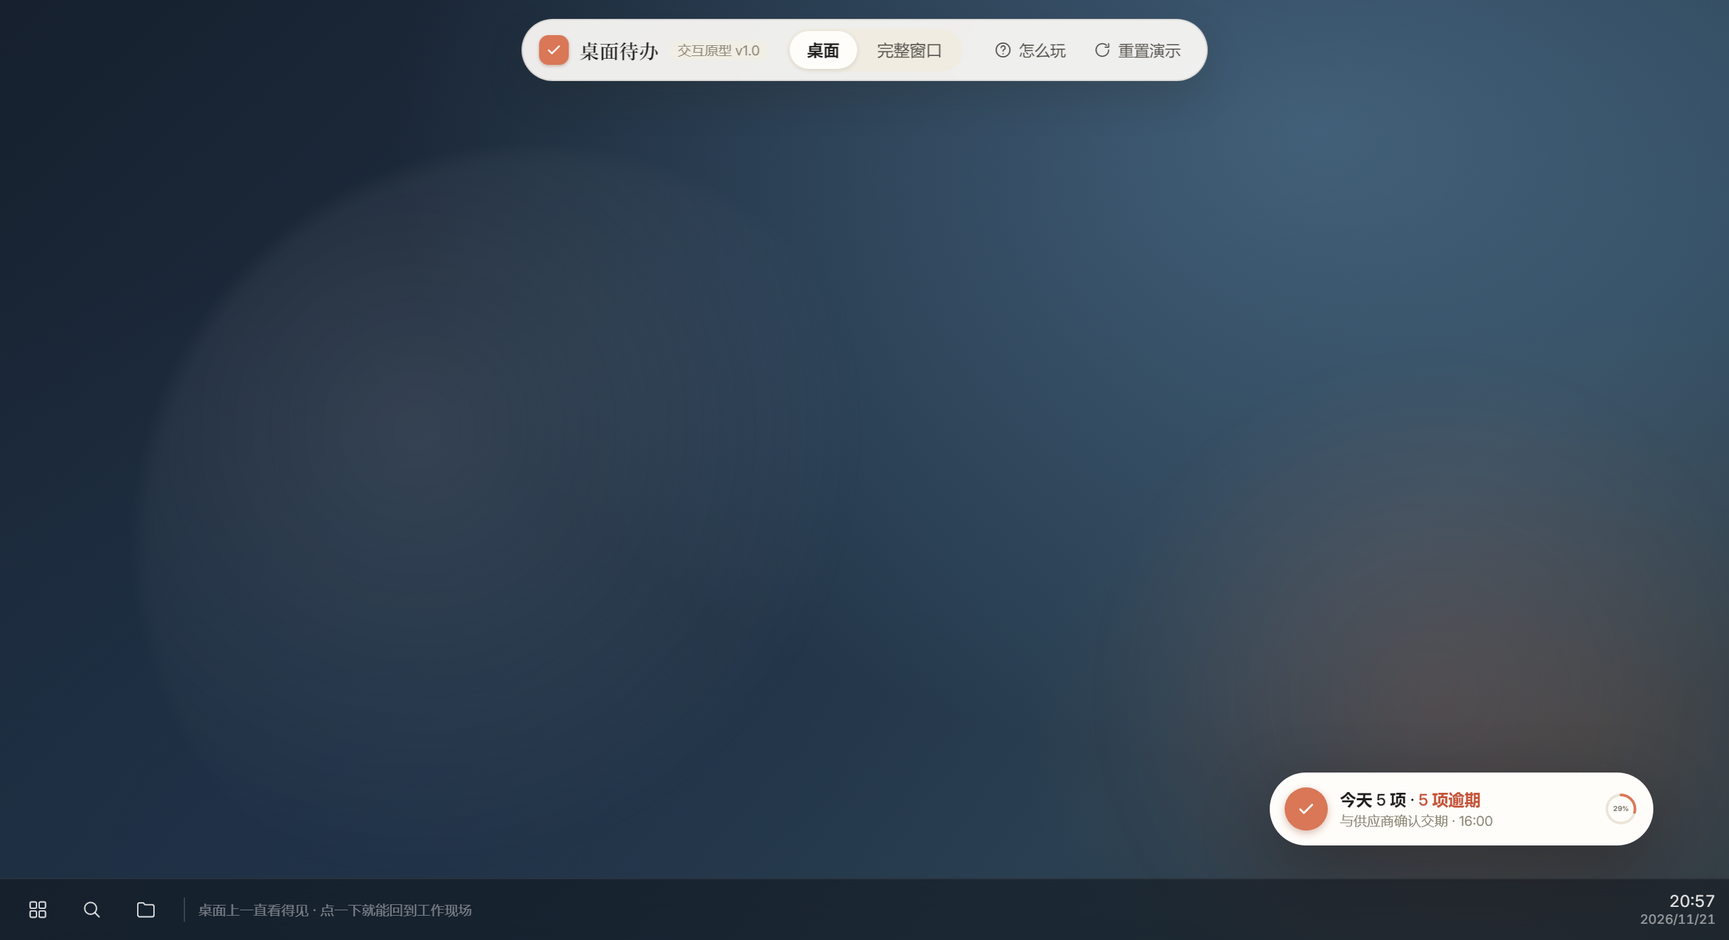
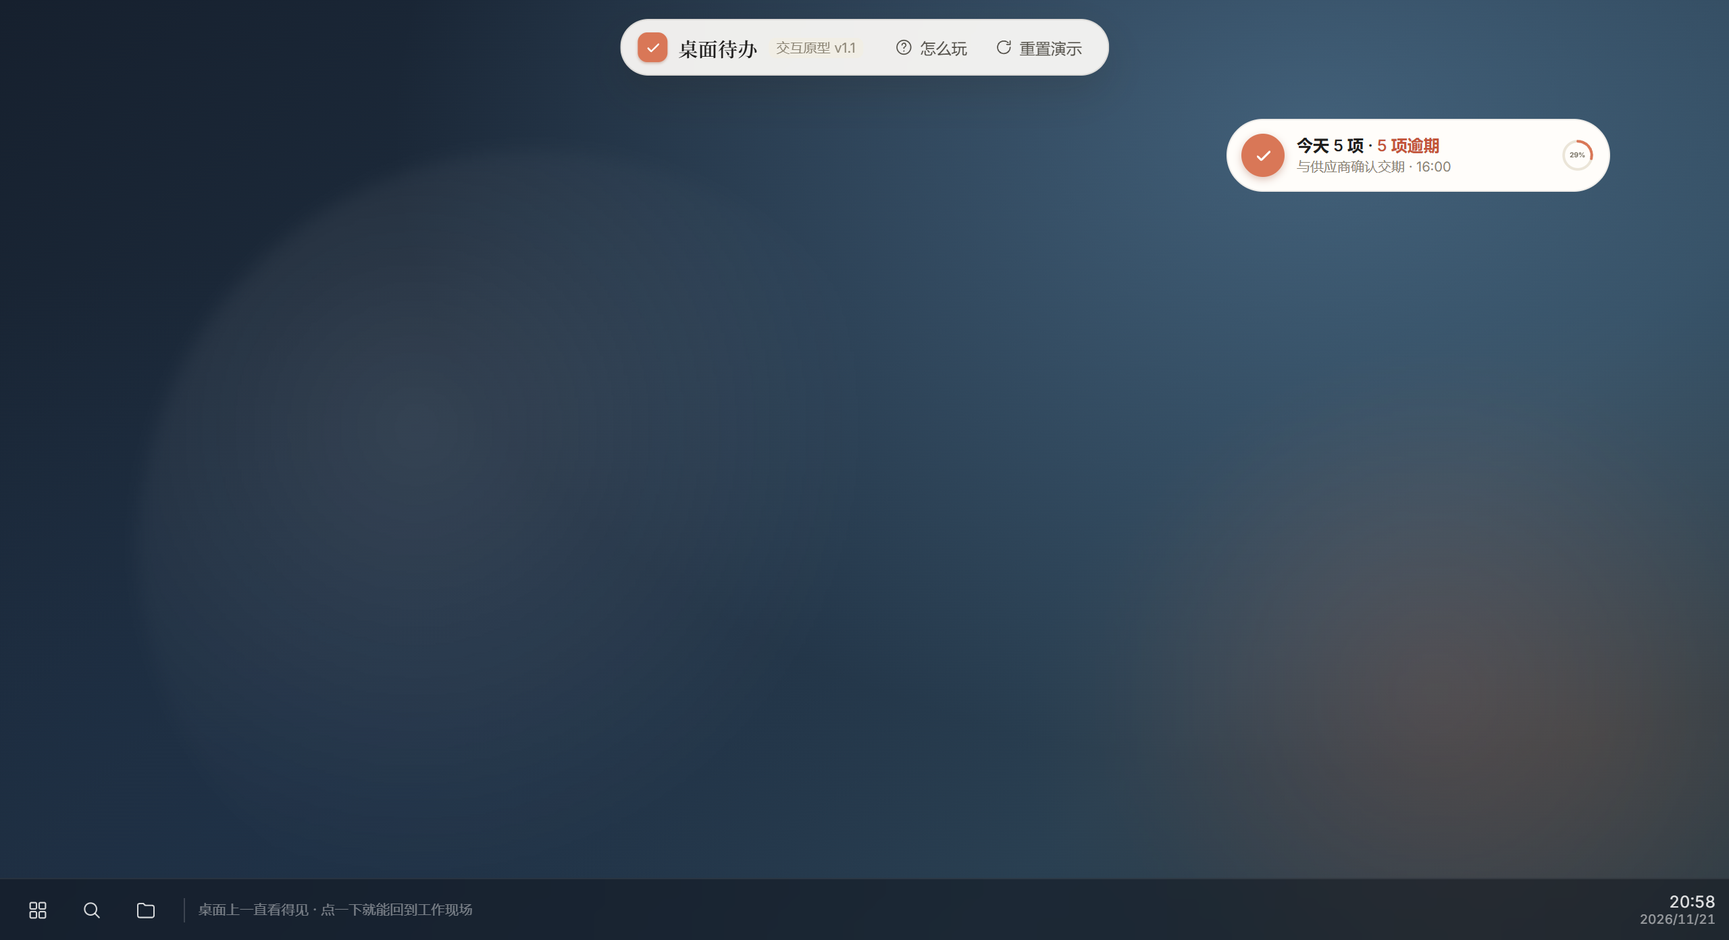
fix(prototype): 桌面形态去掉外投影，原型与实现统一为 1px 内描边
- design/app/css 与两份 tokens：--shadow-widget* / --shadow-capsule* 由外投影改为 inset 0 0 0 1px（8%/未置顶 6%/hover 12% ink）
- 文档同步：docs/02 阴影、docs/08 §1.4/§2.2/§2.4、README、design/README、验收记录（根因、computed 与像素证据）
- 重导参考图 design/app-desktop.png、design/app-capsule.png（1280×696@2x，无头 Edge 158 + CDP，演示时钟 2026-11-21 20:58）
- 验证：CDP computed box-shadow 仅 inset；重导图四边外像素与壁纸差 ≤5/255；run-tests 13 文件 171 用例通过；tsc 0 错误；pnpm build 通过

diff --git a/design/app/css/app.css b/design/app/css/app.css
@@ -122,10 +122,11 @@ a{color:var(--link)}
 .widget{
   width:352px;max-height:520px;display:flex;flex-direction:column;
   background:var(--card);border-radius:var(--r-xl);overflow:hidden;
-  box-shadow:0 24px 60px rgba(20,15,10,.35),0 0 0 1px rgba(255,255,255,.12) inset;
+  /* 桌面形态不使用外投影：Electron 窗口边界＝卡片边界，外投影会被裁切、只在圆角缺口露灰边；改用 1px 内描边（与实现共用 token） */
+  box-shadow:var(--shadow-widget);
   transition:box-shadow .2s,opacity .2s;
 }
-.widget.unpinned{box-shadow:0 14px 34px rgba(20,15,10,.22),0 0 0 1px rgba(255,255,255,.10) inset}
+.widget.unpinned{box-shadow:var(--shadow-widget-unpinned)}
 .w-drag{height:14px;display:flex;align-items:center;justify-content:center;gap:4px;cursor:grab;flex:none}
 .w-drag i{width:2.5px;height:2.5px;border-radius:50%;background:#DAD3C3;display:block}
 .w-drag:active{cursor:grabbing}
@@ -201,10 +202,10 @@ a{color:var(--link)}
 
 /* 收起胶囊 */
 .capsule{position:absolute;right:56px;bottom:70px;width:284px;height:54px;border-radius:999px;
-  background:var(--card);box-shadow:0 18px 50px rgba(20,15,10,.36),0 0 0 1px rgba(255,255,255,.10) inset;
+  background:var(--card);box-shadow:var(--shadow-capsule);
   display:flex;align-items:center;gap:9px;padding:0 11px;cursor:pointer;transition:transform .16s,box-shadow .2s;
   animation:capsuleIn .26s cubic-bezier(.34,1.4,.64,1)}
-.capsule:hover{box-shadow:0 22px 56px rgba(20,15,10,.42),0 0 0 1px rgba(255,255,255,.12) inset}
+.capsule:hover{box-shadow:var(--shadow-capsule-hover)}
 .cap-check{width:32px;height:32px;flex:none;border-radius:50%;background:var(--accent);color:#FFFDFA;
   display:flex;align-items:center;justify-content:center;box-shadow:0 2px 6px rgba(150,75,50,.35)}
 .cap-check .ic{width:15px;height:15px;stroke-width:2.4}
@@ -602,7 +603,7 @@ input:focus-visible,textarea:focus-visible,select:focus-visible{outline:none;box
 /* 收起胶囊：可拖动，位置由 .cap-wrap 内联 left/top 决定（记忆在 ui.capsule） */
 .cap-wrap{position:absolute;left:0;top:0;transition:opacity .18s}
 .cap-wrap .capsule{position:relative;right:auto;bottom:auto;left:auto;top:auto}
-.cap-wrap.dragging .capsule{transition:none;cursor:grabbing;transform:none;box-shadow:0 22px 56px rgba(20,15,10,.46),0 0 0 1px rgba(255,255,255,.12) inset}
+.cap-wrap.dragging .capsule{transition:none;cursor:grabbing;transform:none;box-shadow:var(--shadow-capsule-hover)}
 
 /* 输入框：改成自动换行的 textarea（一行起步，随内容增高，最多 5 行后内部滚动） */
 .composer textarea.cinput{display:block;width:100%;border:0;outline:0;background:transparent;

diff --git a/design/ui/tokens.css b/design/ui/tokens.css
@@ -131,10 +131,11 @@
   --shadow-card-strong:0 2px 8px rgba(60,50,30,.05);
   --shadow-pop:0 18px 40px rgba(60,50,30,.16),0 2px 6px rgba(60,50,30,.06);
   --shadow-modal:0 34px 90px rgba(40,30,15,.34),0 0 0 1px rgba(60,50,30,.06);
-  --shadow-widget:0 24px 60px rgba(20,15,10,.35),0 0 0 1px rgba(255,255,255,.12) inset;
-  --shadow-widget-unpinned:0 14px 34px rgba(20,15,10,.22),0 0 0 1px rgba(255,255,255,.10) inset;
-  --shadow-capsule:0 18px 50px rgba(20,15,10,.36),0 0 0 1px rgba(255,255,255,.10) inset;
-  --shadow-capsule-hover:0 22px 56px rgba(20,15,10,.42),0 0 0 1px rgba(255,255,255,.12) inset;
+  /* 桌面形态（挂件/胶囊）不使用外投影：窗口边界＝卡片边界，外投影会被矩形窗口裁切、只在圆角缺口露灰边；用 1px 内描边表达边界（原型与实现一致） */
+  --shadow-widget:inset 0 0 0 1px color-mix(in srgb, var(--ink) 8%, transparent);
+  --shadow-widget-unpinned:inset 0 0 0 1px color-mix(in srgb, var(--ink) 6%, transparent);
+  --shadow-capsule:inset 0 0 0 1px color-mix(in srgb, var(--ink) 8%, transparent);
+  --shadow-capsule-hover:inset 0 0 0 1px color-mix(in srgb, var(--ink) 12%, transparent);
   --shadow-manager:0 30px 80px rgba(50,40,25,.20),0 0 0 1px rgba(60,50,30,.06);
   --shadow-toast:0 16px 36px rgba(20,15,5,.32);
 

diff --git a/src/renderer/src/styles/tokens.css b/src/renderer/src/styles/tokens.css
@@ -131,10 +131,11 @@
   --shadow-card-strong:0 2px 8px rgba(60,50,30,.05);
   --shadow-pop:0 18px 40px rgba(60,50,30,.16),0 2px 6px rgba(60,50,30,.06);
   --shadow-modal:0 34px 90px rgba(40,30,15,.34),0 0 0 1px rgba(60,50,30,.06);
-  --shadow-widget:0 24px 60px rgba(20,15,10,.35),0 0 0 1px rgba(255,255,255,.12) inset;
-  --shadow-widget-unpinned:0 14px 34px rgba(20,15,10,.22),0 0 0 1px rgba(255,255,255,.10) inset;
-  --shadow-capsule:0 18px 50px rgba(20,15,10,.36),0 0 0 1px rgba(255,255,255,.10) inset;
-  --shadow-capsule-hover:0 22px 56px rgba(20,15,10,.42),0 0 0 1px rgba(255,255,255,.12) inset;
+  /* 桌面形态（挂件/胶囊）不使用外投影：窗口边界＝卡片边界，外投影会被矩形窗口裁切、只在圆角缺口露灰边；用 1px 内描边表达边界（原型与实现一致） */
+  --shadow-widget:inset 0 0 0 1px color-mix(in srgb, var(--ink) 8%, transparent);
+  --shadow-widget-unpinned:inset 0 0 0 1px color-mix(in srgb, var(--ink) 6%, transparent);
+  --shadow-capsule:inset 0 0 0 1px color-mix(in srgb, var(--ink) 8%, transparent);
+  --shadow-capsule-hover:inset 0 0 0 1px color-mix(in srgb, var(--ink) 12%, transparent);
   --shadow-manager:0 30px 80px rgba(50,40,25,.20),0 0 0 1px rgba(60,50,30,.06);
   --shadow-toast:0 16px 36px rgba(20,15,5,.32);
 

diff --git a/src/renderer/src/styles/app.css b/src/renderer/src/styles/app.css
@@ -35,7 +35,7 @@ a{color:var(--link)}
 [hidden]{display:none !important}
 
 /* ================= 桌面挂件层 ================= */
-/* 挂件 */
+/* 挂件：窗口边界＝卡片边界，桌面形态不画外投影（被矩形窗口裁切），--shadow-widget* 是 1px 内描边 */
 .widget{
   width:352px;max-height:520px;display:flex;flex-direction:column;
   background:var(--card);border-radius:var(--radius-2xl);overflow:hidden;

diff --git a/docs/acceptance/M6-ACCEPTANCE.md b/docs/acceptance/M6-ACCEPTANCE.md
@@ -172,7 +172,7 @@
 
 | 反馈 | 根因 | 修复 | 验证 |
 | --- | --- | --- | --- |
-| 挂件/胶囊下有灰色底板 | 透明窗口沿用了 08 原型的大投影 `--shadow-widget/--shadow-capsule`，在浅色桌面上渲染成灰色矩形 | `src/renderer/src/styles/app.css` 桌面形态改用 token 派生轻投影 + 1px 内描边；`.unpinned` 更轻；tokens.css 未改 | CDP `getComputedStyle(...).boxShadow` = `0 4px 16px color(ink 10%) + 1px ink 8%`；OS 截图确认无灰色矩形 |
+| 挂件/胶囊下有灰色底板 | 透明窗口沿用了 08 原型的大投影 `--shadow-widget/--shadow-capsule`，在浅色桌面上渲染成灰色矩形 | `src/renderer/src/styles/app.css` 桌面形态改用 1px 内描边；后续原型与 tokens 也统一去掉外投影（见第 7 节） | 真机四角像素＝背景色（挂件 `(247,249,255)`、胶囊 `(251,252,255)`）；桌面形态 computed `box-shadow` 为 inset 1px 内描边 |
 | 胶囊只有左侧对勾可点开 | 胶囊主体是 `-webkit-app-region: drag` 拖动区，吞掉点击 | 改用 renderer pointer 事件 + 主进程 `setBounds`：新增 `widget:beginDrag/dragMove/endDrag`；整块可点，位移 ≥4px 才进入拖动并抑制展开 | CDP `Input.dispatchMouseEvent`：点胶囊中部 → `view-widget` ✓；点对勾圆 → 展开 ✓；拖动 6 步后仍 `view-capsule`（未误展开）且 `settings.capsuleBounds` 从 {994,77} 写回 {1162,182} ✓ |
 | 胶囊很难拖动 | 同上，只有拖动区可用 | 同上，整块可拖；松手写回 `capsuleBounds`（clamp 到 workArea） | 同上；另设 `.view-capsule .capsule{cursor:grab}`、`.dragging{cursor:grabbing}` |
 | 完整窗口输入框下方日期面板一点就关、无法选择 | `Popover` 的 outside-click 把 portal 出来的 `.dp-pop` 当成外部点击 | `anchoredPosition.ts` 增加 `FLOATING_LAYER_SELECTOR='.pop, .dp-pop, .overlay'` + `isInsideFloatingLayer()`；`Popover` mousedown 判断命中内嵌浮层则不关闭 | CDP：composer 日期浮层 → 打开 `.dp-pop` → 点 25 日 → `.pop`/`.dp-pop` 均保持打开 → 点「确定」→ 生效为「11月25日 00:30」并关闭；截图 `.agents/reports/screens/m6-fix-datepicker.png` |
@@ -359,3 +359,20 @@
 **补充（2026-11-22 11:30 打包版复验）**：
 - 修复「hover 位移」之外又修了亚像素裁切：`175%` DPI 下胶囊窗口 client 为 284×54 但渲染视口 innerHeight≈55，`height:100%` 会让卡片比窗口高约 0.4px、底部圆角被裁。改为 `.view-capsule .cap-wrap{display:flex;align-items:center;justify-content:center}` + `.capsule{height:var(--capsule-h,54px)}`，卡片固定 54 高并居中。
 - 打包版（桌面交付目录启动）复验：胶囊 `y=0.71 / h=54`（完整可见、无裁切），`Input.dispatchMouseEvent` 悬停后 `transform:none`、`y/h` 不变、内描边 12%；OS 截图圆角上下弧线连续。
+
+
+## 7) 2026-11-22 11:36 原型与实现统一去掉桌面形态外投影（用户 2026-11-22 11:33 指示）
+
+**用户指示**：不需要「浮在桌面上、四周带大外投影」的效果，要求原型与相关说明同步调整。
+
+**改动**：
+- `design/ui/tokens.css` 与 `src/renderer/src/styles/tokens.css`：4 个桌面形态 shadow token（`--shadow-widget` / `--shadow-widget-unpinned` / `--shadow-capsule` / `--shadow-capsule-hover`）改为 `inset 0 0 0 1px` 内描边（8% / 未置顶 6% / hover 12% ink），两份 tokens 保持一致。
+- `design/app/css/app.css`：`.widget` / `.widget.unpinned` / `.capsule` / `.capsule:hover` / `.cap-wrap.dragging .capsule` 改用上述 token，原型不再画外投影。
+- 说明文档：`docs/02` §3、`docs/08` §1.4/§2.2/§2.4、`README.md`、`design/README.md` 同步为「桌面形态只用 1px 内描边、不使用外投影」。
+- 参考截图：`design/app-desktop.png`、`design/app-capsule.png` 由更新后的原型重新导出（1280×696 @2x，演示时钟固定在 2026-11-21 20:58，与旧图同状态便于对比）。
+
+**验证**：
+- 原型（无头 Edge 158 + CDP，1280×696 @2x）：`.widget` / `.capsule` 的 computed `box-shadow` 均为 `color(srgb 0.121569 0.117647 0.113725 / 0.08) 0px 0px 0px 1px inset`（只剩内描边）；重新导出 `design/app-desktop.png`、`design/app-capsule.png`。
+- 像素复核（重导图）：卡片四边外 3px 取样与同方向远处壁纸的差值 ≤5/255（属于壁纸渐变本身的量级），无外投影造成的暗带；旧图同一位置为明显的外投影暗带。
+- 实现：桌面形态规则仍为 `inset 0 0 0 1px ...`（8% / 未置顶 6% / hover 12%）；tokens 的 4 个 shadow token 同步改为内描边（base 规则与拖拽态使用），未引入新的外投影绘制。
+- 回归：`node scripts/run-tests.cjs` 13 文件 171 用例全部通过；`npx tsc --noEmit` 0 错误；`pnpm build` 通过并更新 `out/`（renderer CSS 66.95 kB）。

diff --git a/docs/08-UI-ENGINEERING-SPEC.md b/docs/08-UI-ENGINEERING-SPEC.md
@@ -101,14 +101,16 @@
 | --shadow-card | 静置卡片、composer |
 | --shadow-pop | 筛选/下拉/日期选择器 |
 | --shadow-modal | 编辑/管理/确认弹窗 |
-| --shadow-widget | 挂件（置顶） |
-| --shadow-widget-unpinned | 挂件（未置顶） |
-| --shadow-capsule | 胶囊静置 |
-| --shadow-capsule-hover | 胶囊 hover |
+| --shadow-widget | 挂件（置顶，1px 内描边） |
+| --shadow-widget-unpinned | 挂件（未置顶，1px 内描边） |
+| --shadow-capsule | 胶囊静置（1px 内描边） |
+| --shadow-capsule-hover | 胶囊 hover（1px 内描边，12% ink） |
 | --shadow-manager | 完整窗口 |
 | --shadow-toast | toast |
 
 禁止用纯黑阴影；阴影颜色必须来自 tokens.css。
+
+桌面形态（挂件/胶囊）的 4 个 token（--shadow-widget / --shadow-widget-unpinned / --shadow-capsule / --shadow-capsule-hover）是 **1px 内描边**，不是外投影：Electron 窗口边界＝卡片边界，外投影会被矩形窗口裁切、只在圆角缺口露灰边；原型与实现统一不使用任何外投影（2026-11-22 用户确认）。
 
 ### 1.5 动效（数值即契约）
 
@@ -180,7 +182,7 @@
 
 从上到下：拖拽区 → 标题/日期/工具 → 待办分组 → 已完成折叠 → 输入框 → footer。
 
-- 根：宽 352，max-height 520，radius 16，background --card，shadow --shadow-widget；未置顶用 --shadow-widget-unpinned。
+- 根：宽 352，max-height 520，radius 16，background --card，1px 内描边 --shadow-widget（不使用外投影）；未置顶用 --shadow-widget-unpinned。
 - 拖拽区：高 14，居中 6 个 2.5px 圆点；与头部合计顶部 36px 可拖动。
 - 头部：padding 0 14px 8px；标题 20/1.2 500；日期行 10.5，逾期数字 --accent-deep；工具按钮 26×26，图标 15；进度环 34。
 - 内容区：横向 padding 6，纵向滚动；任务行 padding 6 8，gap 8；任务标题 12.5，元信息 10。
@@ -210,9 +212,9 @@
 
 ### 2.4 胶囊
 
-- 284×54，radius 999，background --card，shadow --shadow-capsule；hover 加深内描边（12% ink），**不做位移**——窗口高度＝胶囊高度，`translateY` 会让圆角边缘被窗口边界裁切（2026-11-22 用户反馈「圆弧不连贯、被截断」）。
+- 284×54，radius 999，background --card，1px 内描边 --shadow-capsule（不使用外投影）；hover 加深内描边（12% ink，--shadow-capsule-hover），**不做位移**——窗口高度＝胶囊高度，`translateY` 会让圆角边缘被窗口边界裁切（2026-11-22 用户反馈「圆弧不连贯、被截断」）。
 - 左侧 32 陶土圆 + 白勾；标题 12/550（今天 N 项，逾期用 --accent-deep）；副行 10 --muted；右侧进度环 26。
-- 拖拽时取消 transform，阴影加深；与挂件共用同一位置记忆，切换形态时保持「就近角」屏幕坐标不变（见 §2.8）。
+- 拖拽时取消 transform、内描边加深（--shadow-capsule-hover）；与挂件共用同一位置记忆，切换形态时保持「就近角」屏幕坐标不变（见 §2.8）。
 - 单击展开挂件（约 250ms 判定窗口以区分双击）；双击打开完整窗口；Enter 展开。
 
 ### 2.8 三态互斥与位置基准

diff --git a/.agents/memory/decisions.md b/.agents/memory/decisions.md
@@ -101,3 +101,9 @@
 - 决策：主进程新建独立透明窗口（`openEditorWindow` / `closeEditorWindow` / `resizeEditorWindow`），窗口宽 550（502 + 24×2 内边距），高度由渲染层 `editor:ready` 上报后居中到挂件所在显示器；渲染层用同一 `EditorModal` + `Modal embedded` 模式（不画遮罩、不锁滚动）。挂件/完整窗口的既有编辑路径不变。
 - 理由：同一 bundle 多视图（docs/09）、不复制表单实现；窗口级隔离避免 352/1100 两种窗口尺寸的裁切问题；三态互斥不受影响（编辑窗口是瞬态覆盖层，挂件保持可见）。
 - 配套修正：`anchoredPosition` 的翻转阈值 `needed` 从 `min(popHeight,320)` 改为 `popHeight`——351 高的日期面板在 829 高窗口里「差一点」不翻转会被裁 11px。
+## D15 · 原型与实现统一去掉桌面形态外投影（2026-11-22，用户 m00565 指示）
+
+- 背景：用户确认不需要「浮在桌面上、四周带大外投影」的效果，要求原型与相关说明一起调整。此前 D9/D12 只改了 Electron 实现，原型 `design/app` 仍保留大外投影——这正是「原型能力 vs 窗口能力」的错位。
+- 决策：`design/ui/tokens.css` 与 `src/renderer/src/styles/tokens.css` 的 4 个桌面形态 shadow token 改为 `inset 0 0 0 1px` 内描边（8% / 未置顶 6% / hover 12% ink）；`design/app/css/app.css` 的 `.widget` / `.widget.unpinned` / `.capsule` / `.capsule:hover` / `.cap-wrap.dragging .capsule` 改用这些 token，原型不再画外投影；`docs/02` §3、`docs/08` §1.4/§2.2/§2.4、`README.md`、`design/README.md` 同步。
+- 理由：Electron 透明窗口边界＝卡片边界，任何绘制在卡片外的效果（外投影/外发光/位移）都会被矩形窗口裁切，只在圆角缺口露灰边；原型作为像素基准必须表达「窗口内可落地」的形态，否则实现只能二次偏离。
+- 验证：更新后的原型用无头 Chrome 重新导出 `design/app-desktop.png` / `design/app-capsule.png`；卡片四周无外投影、只剩 1px 内描边；`node scripts/run-tests.cjs` 全绿。

diff --git a/design/README.md b/design/README.md
@@ -64,8 +64,8 @@ node server.mjs
 | static-prototype.html | **静态原型 v2.1**，同步当前界面：三形态、任务与链接、五维筛选、管理入口、删除确认、侧栏边界 |
 | app-fullpage.webp | **唯一整页长图（视觉验收基准）**，由 static-prototype.html 整页导出 |
 | app-manager.png | 完整窗口 · 今天视图（最新左栏 pencil 入口） |
-| app-desktop.png | 桌面挂件 · 主入口 |
-| app-capsule.png | 收起胶囊 · 只留今天进度 |
+| app-desktop.png | 桌面挂件 · 主入口（2026-11-22 重新导出：无外投影） |
+| app-capsule.png | 收起胶囊 · 只留今天进度（2026-11-22 重新导出：无外投影） |
 | app-editor.png | 编辑任务 · 多链接挂在任务下 |
 | app-dp-editor.png | 自定义日期时间选择器 |
 | app-filter.png | 五维筛选：项目与标签分组下拉 |
@@ -84,4 +84,5 @@ node server.mjs
 
 - 字体在 `app/fonts/` 与 `fonts/`，需与 HTML 一起拷贝，否则会回退系统字体
 - 原型数据在浏览器 localStorage（key: `desktopTodo.proto.v1`），清缓存/重置演示都会恢复 seed
+- 桌面形态（挂件/胶囊）不使用外投影：Electron 窗口边界＝卡片边界，外投影会被裁切、只在圆角缺口露灰边；`ui/tokens.css` 的 --shadow-widget* / --shadow-capsule* 是 1px 内描边（8% / 未置顶 6% / hover 12%），与实现一致（2026-11-22 调整）
 - 静态服务器只监听 127.0.0.1，不对外网开放

diff --git a/.agents/changelog.md b/.agents/changelog.md
@@ -46,3 +46,4 @@
 2026-11-22 02:25 | verify | .agents/tmp/verify-shapes.mjs | 三态互斥 6 项 + 折叠输入 4 项 + 四角 8 项全部 PASS（修复漂移后 Δ0）；13 文件 171 用例通过 | m03793 验收
 2026-11-22 | update | src/main/windows.ts, src/main/ipc.ts, src/preload/index.ts, src/shared/types.ts, src/renderer/src/app/{EditorWindowHost.tsx,App.tsx,Widget.tsx}, src/renderer/src/components/{Modal.tsx,EditorModal.tsx,anchoredPosition.ts}, src/renderer/src/styles/app.css | 挂件内点击任务改为独立桌面级编辑窗口（550 宽、内容高度居中、embedded 模态），修复日期面板在编辑窗口内被裁切
 2026-11-22 | update | docs/01-PRD.md, docs/08-UI-ENGINEERING-SPEC.md, docs/acceptance/M6-ACCEPTANCE.md, README.md | 记录挂件内编辑窗口契约与验收（§2.1 窗口矩阵、§3.8 Modal、FR-1.11、补充验收第 5 节）
+2026-11-22 11:37 | update | design/ui/tokens.css, src/renderer/src/styles/tokens.css, design/app/css/app.css, src/renderer/src/styles/app.css, docs/02-DESIGN-SPEC.md, docs/08-UI-ENGINEERING-SPEC.md, docs/acceptance/M6-ACCEPTANCE.md, README.md, design/README.md, design/app-desktop.png, design/app-capsule.png | 原型与实现统一去掉桌面形态外投影：4 个 shadow token 改 1px 内描边，原型挂件/胶囊改用 token，文档与参考截图同步 | 用户指示「不需要浮在桌面上带大外投影，原型及相关说明同步调整」（m00565）

diff --git a/README.md b/README.md
@@ -142,7 +142,7 @@ design/        UI 契约（tokens.css）与交互原型
 
 - 挂件 / 胶囊四个角恢复透明：去掉被窗口边界裁切的外投影，改为 1px 内描边，四角不再出现灰黑色底板。
 - 挂件内日期选择正常：打开日期/日历浮层时窗口临时加高（底边不动），关闭后恢复内容高度；面板不再错位或被裁切。
-- 挂件 / 胶囊下方不再出现灰色矩形底板（透明窗口改用轻投影 + 1px 内描边，不再用原型大投影）。
+- 挂件 / 胶囊不使用外投影（含轻投影）：原型与实现统一为 1px 内描边（8%，未置顶 6%，hover 12%），不再出现灰色矩形底板。
 - 胶囊整体可单击展开（此前只有左侧对勾圆可点）；整块可拖动，位移 ≥4px 才拖动、单击不会误拖（为区分双击，单击有约 250ms 判定延迟）。
 - 完整窗口输入框的日期面板可正常选择日期/时间（此前点击面板内部会关闭父浮层）。
 - 空列表时挂件高度按内容自适应（此前会停在 512px 留下大块空白）。

diff --git a/docs/02-DESIGN-SPEC.md b/docs/02-DESIGN-SPEC.md
@@ -52,7 +52,7 @@
 - 阴影三级：
   - 静置卡片：`0 2px 6px rgba(60,50,30,.045)`
   - 浮层/下拉：`0 18px 40px rgba(60,50,30,.14)`
-  - 挂件/胶囊（桌面上）：`inset 0 0 0 1px color-mix(in srgb, var(--ink) 8%, transparent)` + 轻投影；**不可用大外投影**：Electron 透明窗口边界＝卡片边界，外投影会被矩形窗口裁切，只在圆角缺口露出灰边（2026-11-22 用户反馈后修正）。
+  - 挂件/胶囊（桌面上）：只做 `inset 0 0 0 1px` 内描边（8%，未置顶 6%，hover 12%）；**不使用外投影/外发光**：Electron 透明窗口边界＝卡片边界，外投影会被矩形窗口裁切、只在圆角缺口露出灰边。2026-11-22 用户确认不需要「浮在桌面上、四周带大外投影」的效果后，原型与实现统一为内描边。
 - 间距：4px 节奏；挂件头部左右 14、内容区左右 6；列表行主窗口左右 10、挂件左右 8；区块间距 20–24；精确值见 08 §2.2/§2.3。
 
 ## 4. 三窗口规格

diff --git a/.agents/memory/gotchas.md b/.agents/memory/gotchas.md
@@ -98,3 +98,6 @@
 
 - 独立编辑窗口高度必须先由渲染层测量 `editor-window-host` 再上报；主进程按 `height + 48` 居中，超过工作区 `-32` 时会被夹小，弹层打开时依赖 `anchoredPosition` 上翻而不是加高窗口。
 - `anchoredPosition` 的翻转判断必须用真实 `popHeight`；用上限估算（320）会让 351 高的日期面板在中小窗口里既不翻转也不被夹，底部直接越界。
+## 原型基准与窗口边界（2026-11-22）
+
+- 原型基准里的「浮在桌面上」类效果（外投影、外发光、hover 位移、超出容器的浮层）在 Electron 独立窗口里都会被窗口矩形裁切：原型阶段就要按「窗口内可表达」画（1px 内描边 / 内高光），否则实现必然二次偏离，并被用户看成灰底/被截断。
